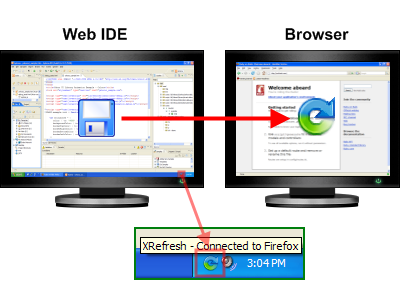
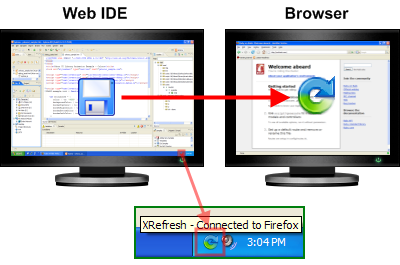
new xrefresh homepage

diff --git a/license.html b/license.html
@@ -1,0 +1,1 @@
+This work is licensed under a <a rel="license" href="http://creativecommons.org/licenses/by-nc-nd/3.0/us/">Creative Commons Attribution-Noncommercial-No Derivative Works 3.0 United States License</a>.

diff --git a/index.md b/index.md
@@ -1,22 +1,53 @@
 ---
 title: XRefresh
-layout: wikistyle
+subtitle: browser refresh automation for web developers
+layout: product
+icon: /shared/img/xrefresh-icon.png
 repo: http://github.com/darwin/xrefresh
 support: http://github.com/darwin/xrefresh/issues
-download: http://xrefresh.googlecode.com/files/xrefresh-1.2.msi # one more link is down in the list!
-version: Version 1.2
+downloadtitle: Download v1.2
+download: http://xrefresh.googlecode.com/files/xrefresh-1.2.msi
+downloadboxwidth: 230px
+donate: https://addons.mozilla.org/en-US/firefox/addons/contribute/7711?source=addon-detail
+subdownload: 
+subdownloadlink:
+mainshot:
+mainshotfull:
+overlaysx: 880px
+overlaysy: 608px
+overlaycx: 25px
+overlaycy: 10px
+mainright: <object width="470" height="282"><param name="movie" value="http://www.youtube.com/v/6pL6YTWlbI4&hl=cs&fs=1&color1=0x3a3a3a&color2=0x999999&border=1"></param><param name="allowFullScreen" value="true"></param><param name="allowscriptaccess" value="always"></param><embed src="http://www.youtube.com/v/6pL6YTWlbI4&hl=cs&fs=1&color1=0x3a3a3a&color2=0x999999&border=0" type="application/x-shockwave-flash" allowscriptaccess="always" allowfullscreen="true" width="470" height="282"></embed></object><div class="video-note">screencast by <b>Sean Schertell</b>, visit <a href="http://zentools.net/"><b>ZenTools homepage</b></a></div>
+mainrightshift: 70px
 ---
 
-# XRefresh can refresh browser as you modify source files
+<div class="advertisement">
+	<div class="plug">Recommended reading:</div>
+	<a href="http://www.amazon.com/gp/product/0596527330?ie=UTF8&tag=xrefresh-20&linkCode=as2&camp=1789&creative=9325&creativeASIN=0596527330"><img border="0" src="/shared/img/amazon/41JdIb%2BJlvL._SL110_.jpg"></a><img src="http://www.assoc-amazon.com/e/ir?t=xrefresh-20&l=as2&o=1&a=0596527330" width="1" height="1" border="0" alt="" style="border:none !important; margin:0px !important;" />
+	
+	<a href="http://www.amazon.com/gp/product/0596527322?ie=UTF8&tag=xrefresh-20&linkCode=as2&camp=1789&creative=9325&creativeASIN=0596527322"><img border="0" src="/shared/img/amazon/41SbEZIgguL._SL110_.jpg"></a><img src="http://www.assoc-amazon.com/e/ir?t=xrefresh-20&l=as2&o=1&a=0596527322" width="1" height="1" border="0" alt="" style="border:none !important; margin:0px !important;" />
 
-<img src="/images/welcome.png" width="540" height="184">
+	<a href="http://www.amazon.com/gp/product/0596527403?ie=UTF8&tag=xrefresh-20&linkCode=as2&camp=1789&creative=9325&creativeASIN=0596527403"><img border="0" src="/shared/img/amazon/41XPmfu3h8L._SL110_.jpg"></a><img src="http://www.assoc-amazon.com/e/ir?t=xrefresh-20&l=as2&o=1&a=0596527403" width="1" height="1" border="0" alt="" style="border:none !important; margin:0px !important;" />
+
+	<a href="http://www.amazon.com/gp/product/0596101996?ie=UTF8&tag=xrefresh-20&linkCode=as2&camp=1789&creative=9325&creativeASIN=0596101996"><img border="0" src="/shared/img/amazon/41IVmVYhRNL._SL110_.jpg"></a><img src="http://www.assoc-amazon.com/e/ir?t=xrefresh-20&l=as2&o=1&a=0596101996" width="1" height="1" border="0" alt="" style="border:none !important; margin:0px !important;" />
+	
+	<a href="http://www.amazon.com/gp/product/0596528388?ie=UTF8&tag=xrefresh-20&linkCode=as2&camp=1789&creative=9325&creativeASIN=0596528388"><img border="0" src="/shared/img/amazon/415pix92XkL._SL110_.jpg"></a><img src="http://www.assoc-amazon.com/e/ir?t=xrefresh-20&l=as2&o=1&a=0596528388" width="1" height="1" border="0" alt="" style="border:none !important; margin:0px !important;" />
+	
+	<div class="offer"><a href="mailto:antonin@binaryage.com">advertise here</a></div>
+</div>
+<script type="text/javascript" src="http://www.assoc-amazon.com/s/link-enhancer?tag=xrefresh-20&o=1">
+</script>
+
+## Features
 
 XRefresh is a browser plugin which will refresh current web page due to file change in selected folders.
 
+<img class="content-image" src="/images/howto.png">
+
 Typical usage scenario is for local web development on a machine with two monitors:
 
-  * Monitor1: browser with current web page being developed
-  * Monitor2: editor/IDE, graphical editor and other tools for source editing
+* Monitor1: browser with current web page being developed
+* Monitor2: editor/IDE, graphical editor and other tools for source editing
 
 When you hit CTRL+S (or whatever key for save), XRefresh will detect it and refresh a web page for you.
 
@@ -25,71 +56,74 @@ When you hit CTRL+S (or whatever key for save), XRefresh will detect it and refr
 <div class="video-note">screencast by Sean Schertell, visit <a href="http://zentools.net/">ZenTools homepage</a></div>
 </div>
 
-## XRefresh components
+### XRefresh components
 
 First you have a monitor running which is a classic OS application listening to filesystem events and you also need a browser extensions which performs the refresh when file changes are signaled.
 
-### XRefresh Monitor for Windows
+#### XRefresh Monitor for Windows
 * standalone windows traybar application watching for changes in selected folder(s)
 * requires .NET Framework 2.0 or higher
 * runs on Windows 2000/2003/XP/Vista (32-bit)
 
-### XRefresh Monitor for OSX
+#### XRefresh Monitor for OSX
 * command-line server application watching for changes in selected folder(s)
 * requires OSX 10.5 (Leopard) or higher
 * requires Ruby and rubygems (this is installed on Leopard by default)
 
-### XRefresh extension for Firefox
+#### XRefresh extension for Firefox
 * browser plugin which listens for monitor requests and performs refresh commands
 * requires [Firefox 3.0 or higher][firefox] + [Firebug 1.4 or higher][firebug]
 * runs on any platform supported by Firefox (tested on Windows and OSX 10.5)
 
-### XRefresh addon for Internet Explorer
+#### XRefresh addon for Internet Explorer
 * browser plugin which listens for monitor requests and performs refresh commands
 * requires [Internet Explorer 6, 7 or 8][ie]
 * runs on Windows 2000/2003/XP/Vista (32-bit)
 
-## Installation on Windows
+## Windows
 
-Install [Firebug 1.4][firebug] and then install [XRefresh Addon][addon] (you don't need this step if you are going to use XRefresh with IE only).
+* install [Firebug 1.4][firebug] 
+* install [XRefresh Addon][addon] (you don't need this step if you are going to use XRefresh with IE only).
+* download [windows installer][download] and go through installation process. It will install XRefresh traybar application and IE plugin.
 
-Download latest [windows installer][download] and go through installation process. It will install XRefresh traybar application and IE plugin.
-
-<img src="/images/howto.png">
-
-#### Usage
+### Usage
 
 Launch **XRefresh** and check for it in the traybar.  
 After start the icon is gray and it means that there are no browsers connected to XRefresh.
 
-<img src="/images/tray.png" width="121" height="36">
+<img class="raw-image" src="/images/tray.png" width="121" height="36">
 
 Tell **XRefresh** where are located your files. XRefresh will watch for your modifications.   
 Tip: You can simply drag&drop interesting folders onto configuration dialog.
 
-<img src="/images/config.png" width="479" height="120">
+<img class="raw-image" src="/images/config.png" width="479" height="120">
 
 Let **Firefox** or **Internet Explorer** connect to XRefresh.
 
+#### Firefox 
 XRefresh has it's own tab panel in Firebug window. You need to enable Firebug for particular site to enable XRefresh functionality.
-<a href="/images/ffintro.png"><img src="/images/ffintro.png" width="600"></a>
 
+<a href="/images/ffintro.png"><img class="raw-image" src="/images/ffintro.png" width="600"></a>
+
+#### Interenet Explorer
 In Interenet Explorer 7 you can find XRefresh icon in the tools in the top right corner (the icon may be hidden in the chevron section).
-<img src="/images/ie7toolbar.png" width="306" height="46">
+
+<img class="raw-image" src="/images/ie7toolbar.png" width="306" height="46">
 
 The icon reflects the connection status. You may click it to open XRefresh Panel
-<img src="/images/ie7console.png" width="392" height="136">
 
-## Installation on OSX
+<img class="raw-image" src="/images/ie7console.png" width="392" height="136">
 
-  * Install [Firebug 1.4][firebug] 
-  * Install [XRefresh Addon][addon]
-  * Install [Ruby Cocoa][rubycocoa] (filesystem monitoring depends on native Cocoa FSEvent API)
-  * Execute ``sudo gem install xrefresh-server``.
+## OSX
 
-<img class="shadow" src="/images/osx.png">
+* Install [Firebug 1.4][firebug] 
+* Install [XRefresh Addon][addon]
+* Install [Ruby Cocoa][rubycocoa] (filesystem monitoring depends on native Cocoa FSEvent API)
+* Execute ``sudo gem install xrefresh-server``.
 
-#### Usage
+<img class="shadow" src="/images/osx.png" width="920">
+
+### Usage
 
 After installation xrefresh-server executable should get onto your system path. 
 To start server simply run ``xrefresh-server`` from command-line.
@@ -121,11 +155,11 @@ After first run, default config file will be created in ``~/.xrefresh-server.yml
     defer_time: 0.5 # aggregation time for events
     sleep_time: 0.1 # don't hung cpu in main loop
  
-As you can see, by default monitor watches your home directory excluding all under ~/Library.
+As you can see, by default monitor watches your home directory excluding all under `~/Library`.
 You are encouraged to modify paths section to map to your working project directories.
  
 By default config file is searched first in current directory and then in your home directory.
-You may also specify path to config file via --config parameter.
+You may also specify path to config file via `--config` parameter.
 
 ## FAQ
 
@@ -150,55 +184,57 @@ You may also specify path to config file via --config parameter.
 #### Do you support @import linked css files in Soft Refresh of CSS?
 > No, you have to link all css files directly from root HTML using &lt;link rel="..."&gt; tag. Other kinds of css stylesheets linkage are ignored during soft refresh.
 
-## Articles about XRefresh
-
-  * [Automated browser refresh addon for Firefox and IE](http://www.ilovecolors.com.ar/automated-browser-refresh-addon-for-firefox-and-ie) by **Elio Rivero**
-
-## Contributors
-  * I've used great [Silk icons by Mark James][silk]
-
 ## History
 
 * **v1.2** (09.07.2009)
-  * [[darwin][darwin]] Firefox: Soft Refresh works with CSS files using relative paths ([Issue 4](http://github.com/darwin/xrefresh/issues#issue/4))
-  * [[darwin][darwin]] Firefox: Soft Refresh reloads CSS from server, so it works with CSS preprocessors like sass or less
+	* [[darwin][darwin]] Firefox: Soft Refresh works with CSS files using relative paths ([Issue 4](http://github.com/darwin/xrefresh/issues#issue/4))
+	* [[darwin][darwin]] Firefox: Soft Refresh reloads CSS from server, so it works with CSS preprocessors like sass or less
 
 * **v1.1** (29.06.2009)
-  * [[blackout][blackout]] Firefox: added Soft Refresh functionality for script files
-  * [[blackout][blackout]] Firefox: fixed Soft Refresh bug on Windows ([Issue 3](http://github.com/darwin/xrefresh/issues#issue/3))
+	* [[blackout][blackout]] Firefox: added Soft Refresh functionality for script files
+	* [[blackout][blackout]] Firefox: fixed Soft Refresh bug on Windows ([Issue 3](http://github.com/darwin/xrefresh/issues#issue/3))
 
 * **v1.0.2** (26.06.2009)
-  * [[darwin][darwin]] Firefox: refresh correctly bypasses cache
-  * [[darwin][darwin]] Firefox: document scroll position is restored after refresh
+	* [[darwin][darwin]] Firefox: refresh correctly bypasses cache
+	* [[darwin][darwin]] Firefox: document scroll position is restored after refresh
 
 * **v1.0.1** (21.06.2009)
-  * [[darwin][darwin]] fixed fatal bug in 1.0 release (Windows only: communication failed when updating CSS files) - thanks Alejandro Torres for tracking this down
+	* [[darwin][darwin]] fixed fatal bug in 1.0 release (Windows only: communication failed when updating CSS files) - thanks Alejandro Torres for tracking this down
 
 * **v1.0** (21.06.2009)
-  * [[darwin][darwin]] compatibility with Firebug 1.4 (unfortunately changes are not backward compatible for older Firebug releases)
-  * [[darwin][darwin]] more robust communication protocol (should solve occasionally broken connections)
-  * [[darwin][darwin]] Soft Refresh can be used over network (as a side product fixed strange Firefox bugs when reading files from local filesystem)
-  * [[darwin][darwin]] fixed problem with Helvetica font on localized Spain Windows
-  * [[darwin][darwin]] changed extension guid back to xrefresh@xrefresh.com to continue in original project at [addons.mozilla.org][addon]
+	* [[darwin][darwin]] compatibility with Firebug 1.4 (unfortunately changes are not backward compatible for older Firebug releases)
+	* [[darwin][darwin]] more robust communication protocol (should solve occasionally broken connections)
+	* [[darwin][darwin]] Soft Refresh can be used over network (as a side product fixed strange Firefox bugs when reading files from local filesystem)
+	* [[darwin][darwin]] fixed problem with Helvetica font on localized Spain Windows
+	* [[darwin][darwin]] changed extension guid back to xrefresh@xrefresh.com to continue in original project at [addons.mozilla.org][addon]
 
 * **v0.9** (never packaged)
-  * [[darwin][darwin]] OSX monitor ignores events from .git directories
-  * [[darwin][darwin]] XRefresh respects cached resources
-  * [[darwin][darwin]] changed extension guid to xrefresh@hildebrand.cz, compatibility with Firebug 1.3
+	* [[darwin][darwin]] OSX monitor ignores events from .git directories
+	* [[darwin][darwin]] XRefresh respects cached resources
+	* [[darwin][darwin]] changed extension guid to xrefresh@hildebrand.cz, compatibility with Firebug 1.3
 
 * **v0.8** (19.07.2008)
-  * [[darwin][darwin]] added OSX support
-  * [[darwin][darwin]] fixed bug in extension networking
-  * [[darwin][darwin]] extension can be enabled/disabled per site (uses new firebug 1.2 feature for this)
+	* [[darwin][darwin]] added OSX support
+	* [[darwin][darwin]] fixed bug in extension networking
+	* [[darwin][darwin]] extension can be enabled/disabled per site (uses new firebug 1.2 feature for this)
 
 * **v0.7** (25.02.2008)
-  * [[darwin][darwin]] "Soft Refresh" feature
+	* [[darwin][darwin]] "Soft Refresh" feature
 
 * **v0.6** (02.01.2008)
-  * [[darwin][darwin]] public release
+	* [[darwin][darwin]] public release
 
 * **v0.5** (12.11.2007)
-  * [[darwin][darwin]] internal alpha
+	* [[darwin][darwin]] internal alpha
+
+## Links
+
+### Articles
+  * [Automated browser refresh addon for Firefox and IE](http://www.ilovecolors.com.ar/automated-browser-refresh-addon-for-firefox-and-ie) by **Elio Rivero**
+
+### Contributors
+  * I've used great [Silk icons by Mark James][silk]
+
 
 [blackout]: http://github.com/blackout
 [darwin]: http://github.com/darwin
